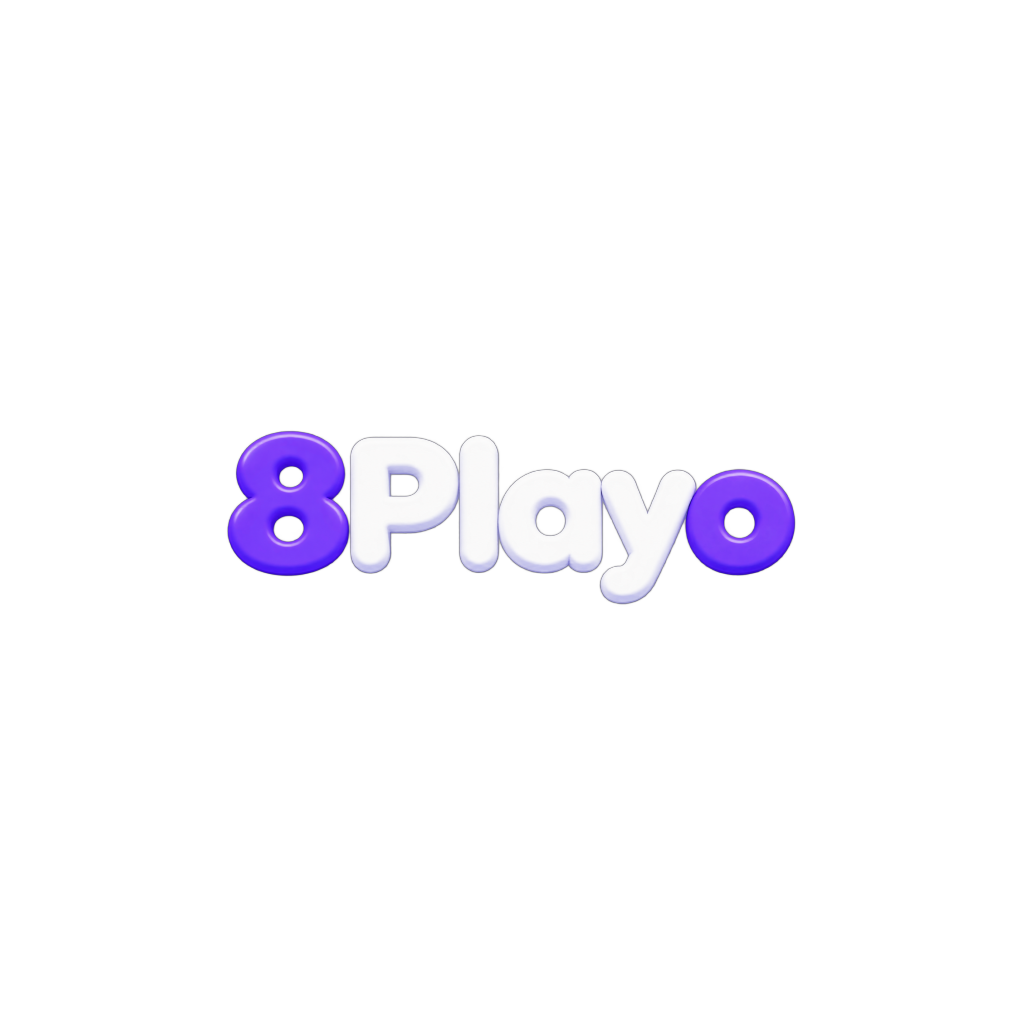
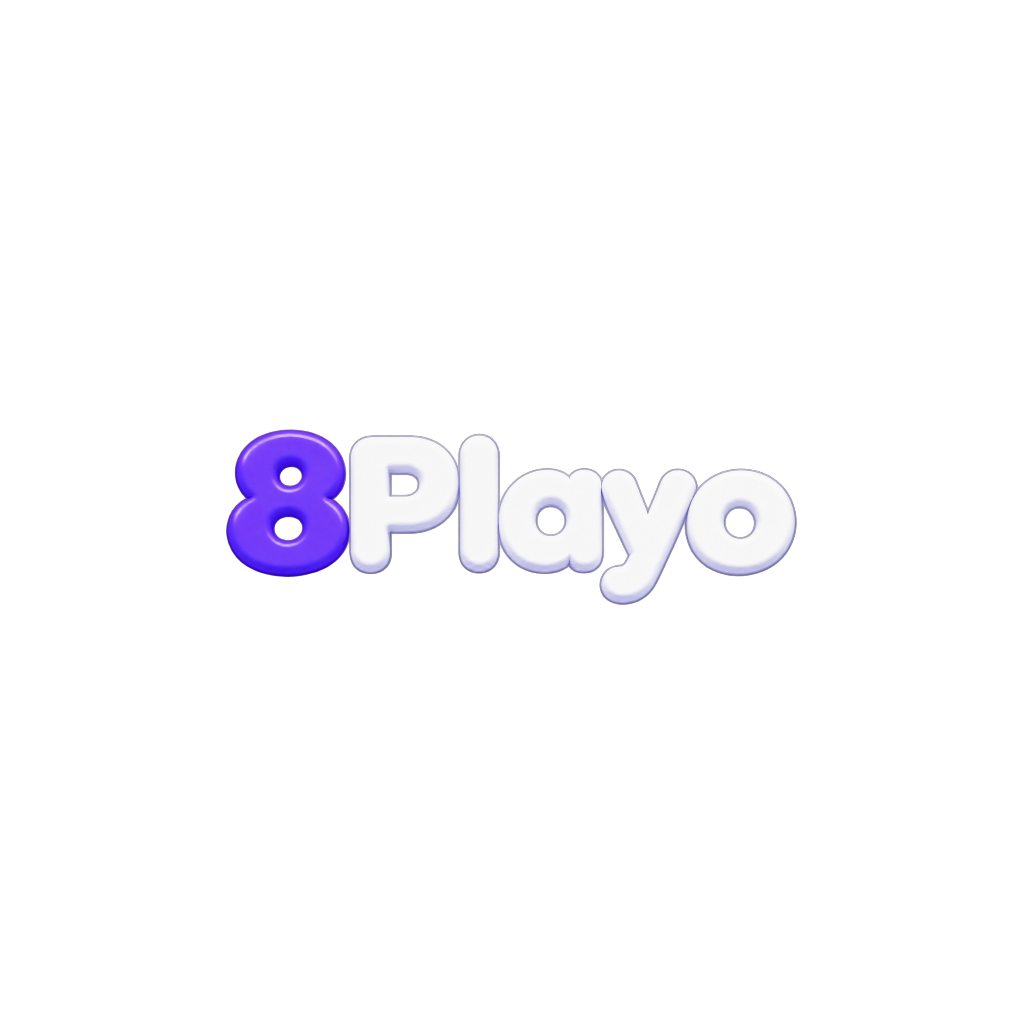
Make Playo white across brand artwork; preserve existing name onboarding

diff --git a/BRANDING.md b/BRANDING.md
@@ -1,18 +1,28 @@
 # 8Playo brand assets
 
-The brand is typography-led: purple numeral **8**, white **Play**, purple final
-lowercase **o**. No robot, face, antenna or mascot appears in active brand art.
+The brand is typography-led: purple numeral **8**, white **Playo**, including the
+final lowercase **o**. No robot, face, antenna or mascot appears in active brand art.
 The app icon has an opaque indigo/blue background; Android's adaptive foreground
 uses a transparent wordmark within the central safe area. Splash and header
 wordmarks remain transparent. Onboarding keeps the friends and party theme.
 
 Canonical sources are under `expo/assets/images/`. Web copies are in
 `website/public/` and `expo/public/`; hashed exported copies are regenerated by
-Expo export and `sync-web-build.js`. Obsolete duplicate robot artwork under
+Expo export and `sync-web-build.js`. Onboarding page 3 keeps the existing live
+name-entry form; the owner cancelled the badge redesign before publication.
+Obsolete duplicate robot artwork under
 `onboarding/logo on icon` was removed; Git checkpoints preserve recovery.
 
 Assets were edited using the built-in imagegen tool, then resized/exported with
-Expo image utilities. Prompt set used October 17, 2026:
+Expo image utilities. Current revision, October 17, 2026:
+
+- Wordmark, square icon and final onboarding hero: change only the final lowercase
+  o to glossy white matching Play; retain purple 8, lettering, lighting, spacing,
+  icon background and hero confetti. Keep transparent backgrounds where present.
+- Regenerate header/web wordmarks, splash, app icon, adaptive foreground and
+  favicons from these canonical images, preserving Android's central safe area.
+
+Previous robot-removal prompt set (superseded color rule):
 
 - Icon: remove robot entirely; centered glossy rounded 3D `8Playo`, purple 8/o,
   white Play, full-bleed indigo/blue square, no mascot or extra text.

diff --git a/RELEASE_LOG.md b/RELEASE_LOG.md
@@ -1,5 +1,23 @@
 # Release log
 
+### October 17: purple 8 / white Playo artwork revision
+
+- Recovery: `checkpoint/2026-10-17-before-white-wordmark` at `32eab0e`.
+  Source release tag: `8playo-white-wordmark-2026-10-17`.
+- Built-in imagegen edited the canonical wordmark, opaque app icon and final
+  onboarding hero: only numeral 8 stays purple; all of Playo is white. Exported
+  header/web copies, splash, adaptive foreground and favicons from those images.
+  Prompt set and canonical paths are recorded in BRANDING.md.
+- The owner cancelled the onboarding page-3 badge redesign before publication;
+  its existing name form and illustration remain byte-for-byte unchanged.
+- Local export reached asset persistence but hit Windows EPERM creating an
+  existing dist route directory; no release was made from that partial export.
+  Reuse the clean GitHub CI artifact for Hosting publication instead.
+- Web/mobile publication receipts will be recorded after service confirmation.
+  Launcher/splash changes need new native binaries; OTA cannot replace installed
+  launcher icons. iOS signing is still unconfirmed; last noninteractive retry
+  failed credential validation (remote build number advanced to 5, no build ID).
+
 ### October 17: 8Playo delivery receipts
 
 - Web source `95e4170c3ee05068e7fd615973665ea769719b47` passed all CI/deploy jobs:
